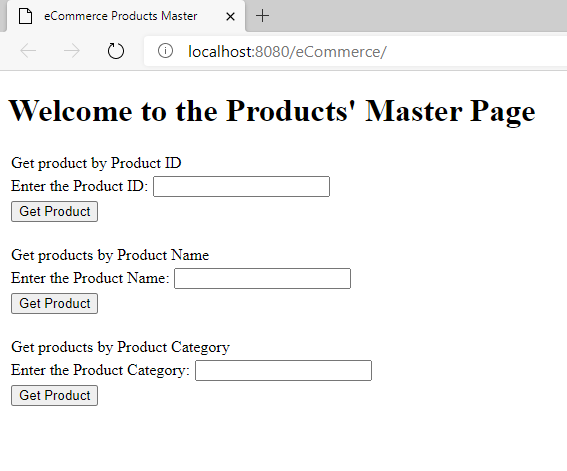
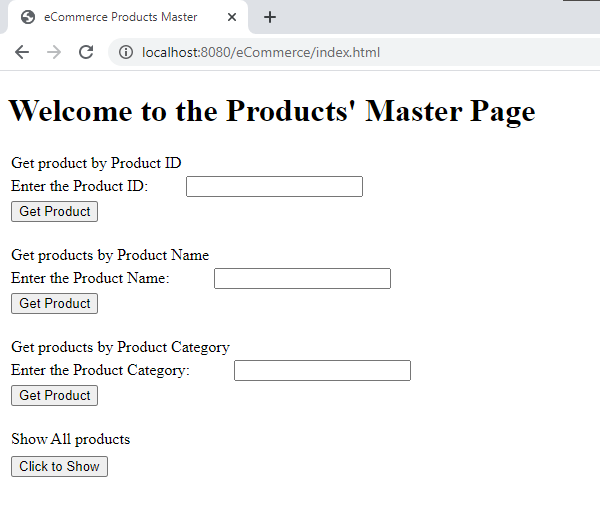
Screenshots and show all products added

diff --git a/eCommerce/src/servlets/DisplayProducts.java b/eCommerce/src/servlets/DisplayProducts.java
@@ -28,7 +28,10 @@ public class DisplayProducts extends HttpServlet {
 				String productID = request.getParameter("productID");
 				if(productID.equals(""))
 				{
-					pw.write("Please enter a value within Product ID");
+					pw.write("<h1>Product Info Page</h1>");
+					pw.write("<p style='color:red'>Please enter a Product ID</p>");
+					pw.write("<p style='color:red'>Product ID field cannot be left blank while searching for products via Product ID</p>");
+					pw.write("<br><br><a href='index.html'>Products Master Page</a>");
 				}
 				else
 				{
@@ -40,7 +43,10 @@ public class DisplayProducts extends HttpServlet {
 				String productName = request.getParameter("productName");
 				if(productName.equals(""))
 				{
-					pw.write("Please enter a Product Name");
+					pw.write("<h1>Product Info Page</h1>");
+					pw.write("<p style='color:red'>Please enter a Product Name</p>");
+					pw.write("<p style='color:red'>Product Name field cannot be left blank while searching for products via Product Name</p>");
+					pw.write("<br><br><a href='index.html'>Products Master Page</a>");
 				}
 				else
 				{
@@ -52,7 +58,10 @@ public class DisplayProducts extends HttpServlet {
 				String productCat = request.getParameter("productCategory");
 				if(productCat.equals(""))
 				{
-					pw.write("Please enter a Product Category");
+					pw.write("<h1>Product Info Page</h1>");
+					pw.write("<p style='color:red'>Please enter a Product Category</p>");
+					pw.write("<p style='color:red'>Product Category field cannot be left blank while searching for products via Product Category</p>");
+					pw.write("<br><br><a href='index.html'>Products Master Page</a>");
 				}
 				else
 				{
